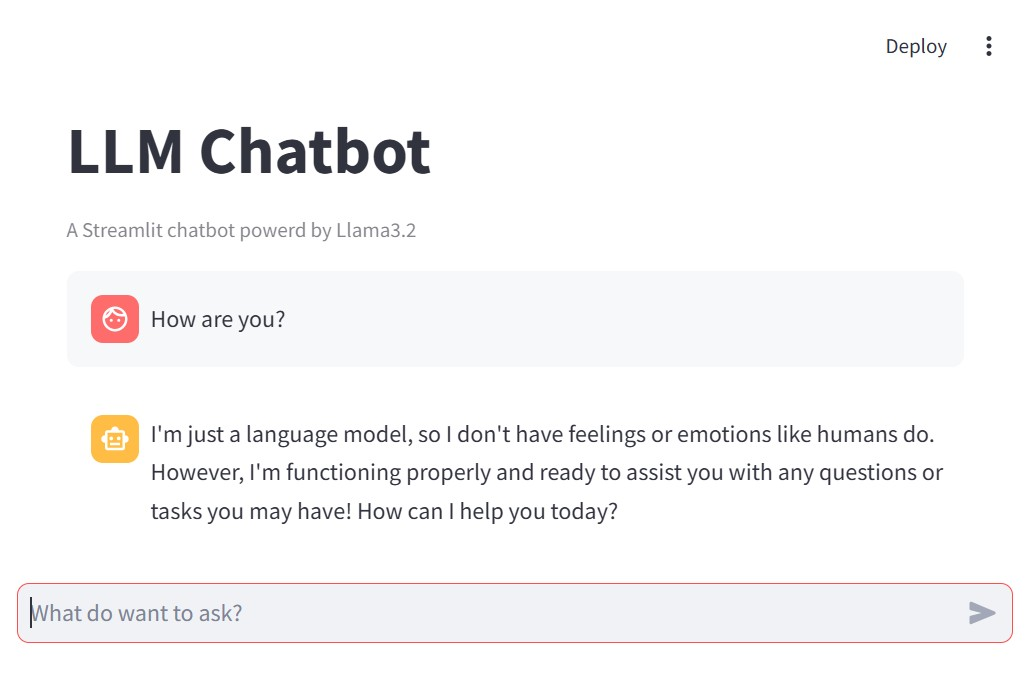
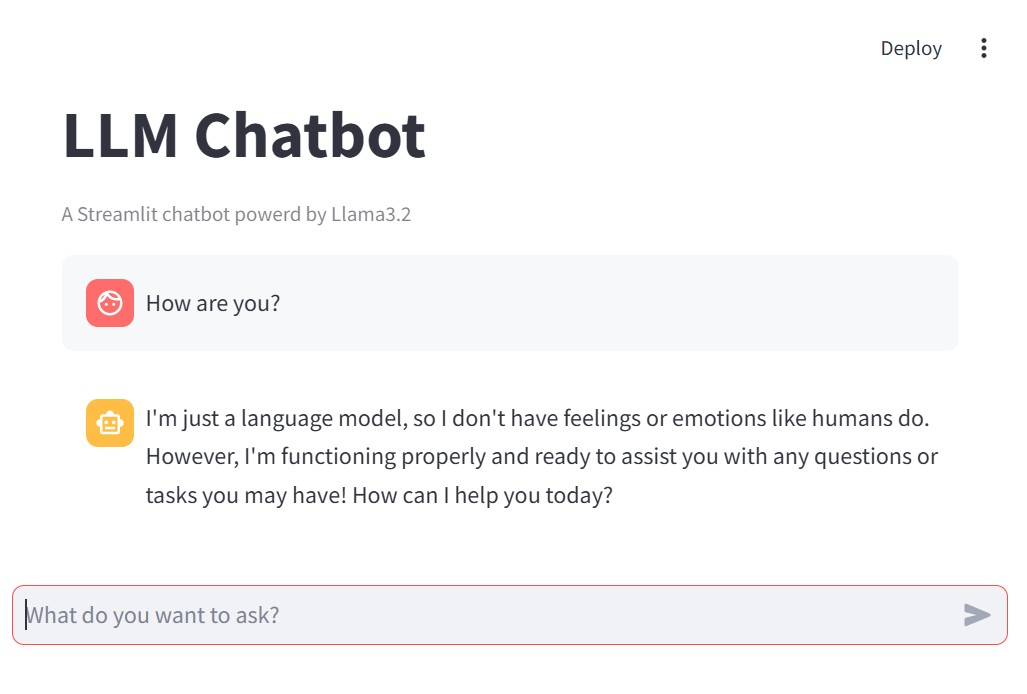
Update chat input message

diff --git a/chat_ollama.py b/chat_ollama.py
@@ -30,7 +30,7 @@ for message in st.session_state.messages:
         st.markdown(message['content'])
         
 # Accept user input
-if prompt := st.chat_input("What do want to ask?"):
+if prompt := st.chat_input("What do you want to ask?"):
     # Display user message in chat message container
     with st.chat_message("user"):
         st.markdown(prompt)
